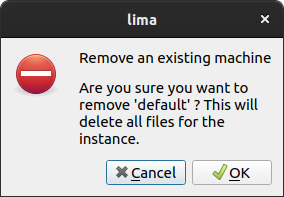
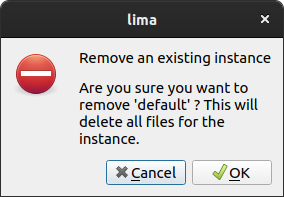
One occurence of machine remained

Changed region(s): [[0.7606, 0.2437, 0.9577, 0.335]]

diff --git a/window.cpp b/window.cpp
@@ -588,7 +588,7 @@ bool Window::askConfirm(QString instance)
     QMessageBox msgBox;
     msgBox.setWindowTitle(tr("lima"));
     msgBox.setIcon(QMessageBox::Critical);
-    msgBox.setText(tr("Remove an existing machine"));
+    msgBox.setText(tr("Remove an existing instance"));
     msgBox.setInformativeText(tr("Are you sure you want to remove '%1' ? This will delete all files for the instance.").arg(instance));
     msgBox.setStandardButtons(QMessageBox::Ok | QMessageBox::Cancel);
     msgBox.setDefaultButton(QMessageBox::Cancel);
